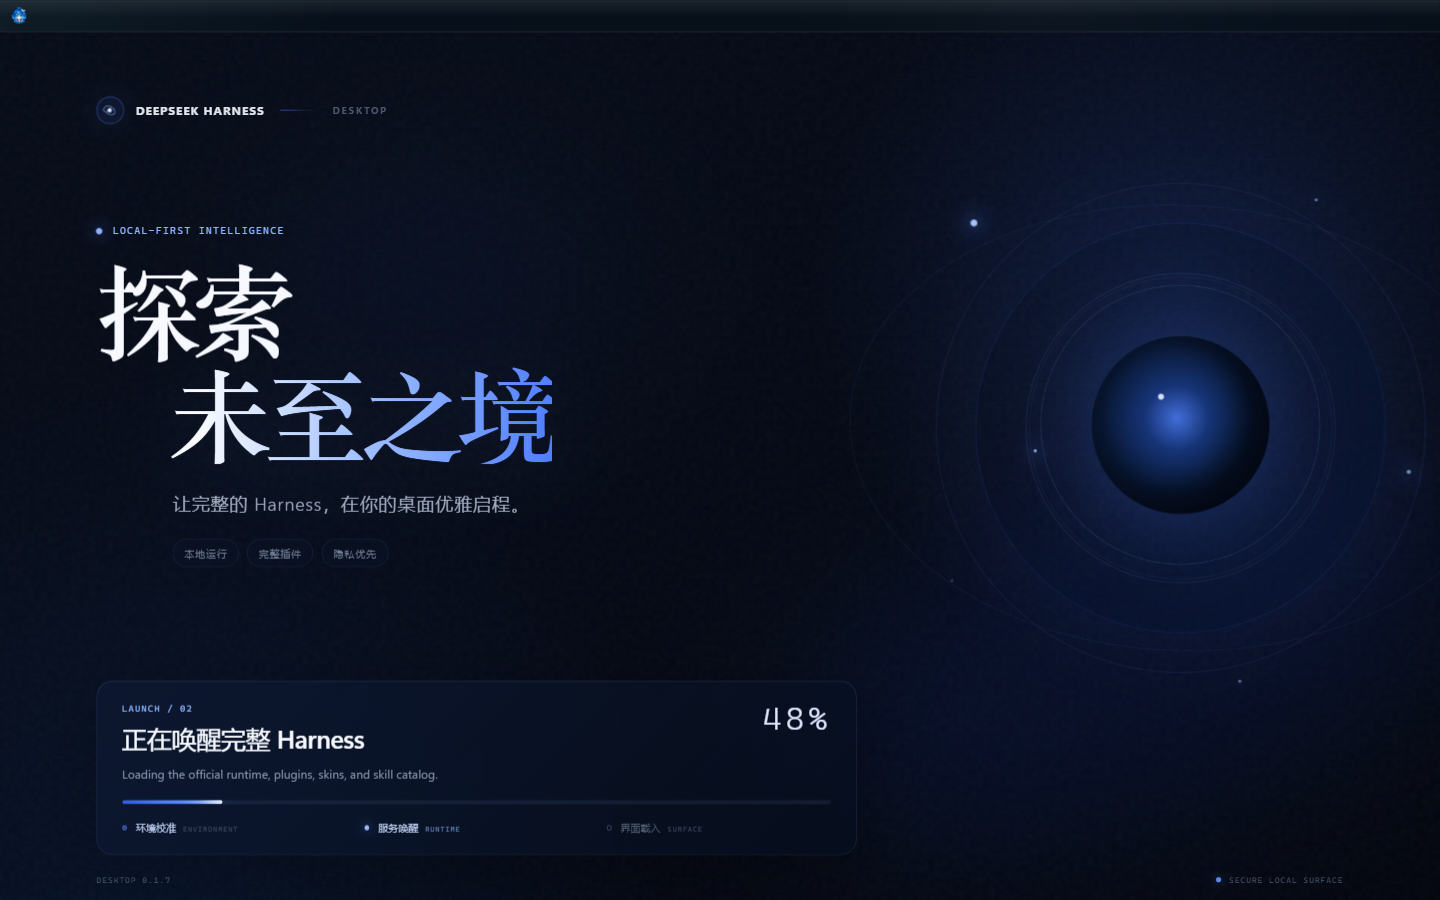
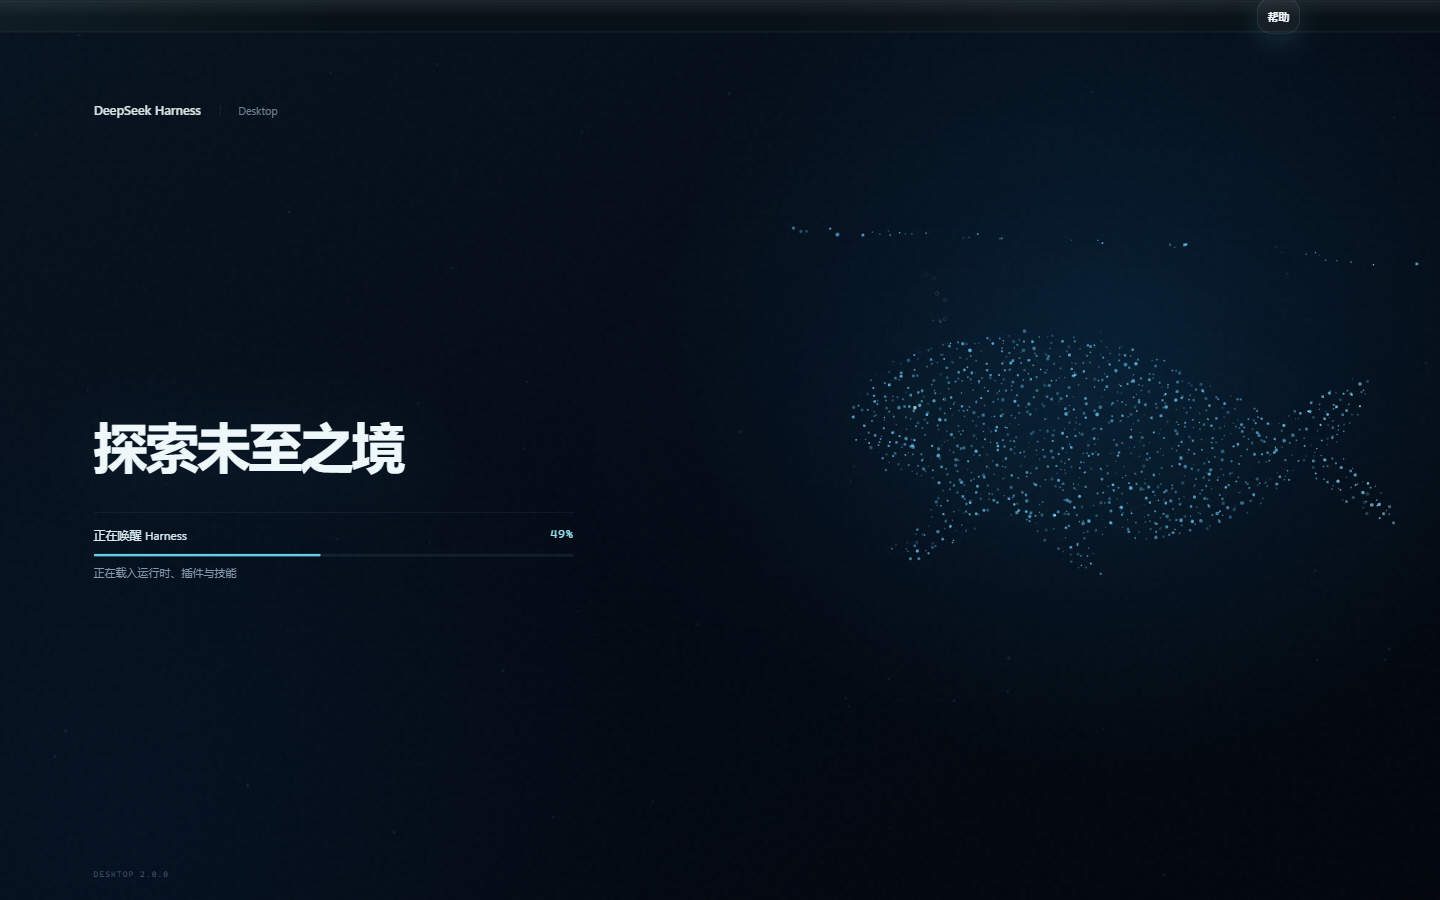
docs: present Desktop 2.0 website and screenshots

diff --git a/website/index.html b/website/index.html
@@ -4,7 +4,7 @@
     <meta charset="UTF-8">
     <meta name="viewport" content="width=device-width, initial-scale=1.0">
     <meta name="theme-color" content="#0a0a0a">
-    <meta name="description" content="DeepSeek Harness Desktop 是社区维护的开源 Windows 桌面客户端，完整保留 Harness Web 能力，提供 ChatGPT OAuth、OpenAI Codex、推理强度、插件、11 款主题、移动远程和自动更新。免费下载 Windows x64 安装包，无需另装 Node.js。">
+    <meta name="description" content="DeepSeek Harness Desktop 2.0 是社区维护的开源 Windows 桌面客户端，新增 Skills 技能库、排队消息续传、模型 API 自动恢复、SSH 实时监控、思考区吸顶与粒子鲸鱼启动页。免费下载 Windows x64 安装包，无需另装 Node.js。">
     <meta name="keywords" content="DeepSeek Harness Desktop,DeepSeek Harness 桌面版,DeepSeek Windows 客户端,开源 AI 编程助手,Harness 下载">
     <meta name="author" content="DeepSeek Harness Desktop Community">
     <meta name="robots" content="index, follow, max-image-preview:large, max-snippet:-1, max-video-preview:-1">
@@ -14,7 +14,7 @@
     <link rel="canonical" href="https://ningbainb.github.io/deepseek-harness-desktop/">
     <link rel="sitemap" type="application/xml" href="https://ningbainb.github.io/deepseek-harness-desktop/sitemap.xml">
     <meta property="og:title" content="DeepSeek Harness Desktop 开源 Windows 桌面版">
-    <meta property="og:description" content="完整 Harness，原生桌面。免费下载 Windows x64 安装包，无需另装 Node.js。">
+    <meta property="og:description" content="2.0 新增技能库、消息续传、模型 API 恢复、SSH 实时监控与全新粒子鲸鱼启动页。">
     <meta property="og:type" content="website">
     <meta property="og:url" content="https://ningbainb.github.io/deepseek-harness-desktop/">
     <meta property="og:site_name" content="DeepSeek Harness Desktop">
@@ -23,7 +23,7 @@
     <meta property="og:image:alt" content="DeepSeek Harness Desktop 开源 Windows 桌面客户端界面">
     <meta name="twitter:card" content="summary_large_image">
     <meta name="twitter:title" content="DeepSeek Harness Desktop 开源 Windows 桌面版">
-    <meta name="twitter:description" content="完整 Harness，原生桌面。免费下载 Windows x64 安装包。">
+    <meta name="twitter:description" content="2.0 新增技能库、消息续传、模型 API 恢复、SSH 实时监控与全新粒子鲸鱼启动页。">
     <meta name="twitter:image" content="https://ningbainb.github.io/deepseek-harness-desktop/assets/hero-main.png">
     <title>DeepSeek Harness Desktop 开源桌面版 - Windows 一键下载</title>
     <script type="application/ld+json">
@@ -44,7 +44,7 @@
             "name": "DeepSeek Harness Desktop",
             "alternateName": "DeepSeek Harness 桌面版",
             "url": "https://ningbainb.github.io/deepseek-harness-desktop/",
-            "description": "完整保留 Harness Web 能力的开源 Windows 桌面客户端，提供 ChatGPT OAuth、OpenAI Codex、推理强度、插件、11 款主题、移动远程和自动更新。",
+            "description": "完整保留 Harness Web 能力的开源 Windows 桌面客户端，2.0 新增 Skills 技能库、排队消息续传、模型 API 自动恢复、SSH 实时监控、思考区吸顶与粒子鲸鱼启动页。",
             "applicationCategory": "DeveloperApplication",
             "applicationSubCategory": "AI coding assistant",
             "operatingSystem": "Windows 10, Windows 11",
@@ -68,7 +68,12 @@
               "插件与技能管理",
               "11 款主题",
               "移动远程访问",
-              "自动更新"
+              "自动更新",
+              "对话栏 Skills 技能库",
+              "取消后的排队消息续传",
+              "模型 API 有界自动恢复",
+              "SSH 实时监控与安全操作",
+              "长思考吸顶折叠"
             ],
             "offers": {
               "@type": "Offer",
@@ -171,8 +176,8 @@
         <div class="container hero-inner">
           <div class="hero-copy reveal">
             <p class="overline">DeepSeek Harness Desktop 社区版</p>
-            <h1>DeepSeek Harness<br>Desktop 开源版</h1>
-            <p class="hero-summary">把官方 Web Surface 完整装进 Windows 桌面，并加入 ChatGPT OAuth、OpenAI Codex、推理强度、插件扩展与自动更新。</p>
+            <h1>DeepSeek Harness<br>Desktop 2.0</h1>
+            <p class="hero-summary">完整 Harness 进入桌面：Skills 技能库、可靠消息续传、模型 API 自动恢复、SSH 实时监控与全新粒子鲸鱼启动页。</p>
             <p class="hero-summary">无需另外安装 Node.js。下载、启动，然后直接开始工作。</p>
             <div class="hero-buttons">
               <a class="btn btn-primary download-link" href="https://github.com/ningbainb/deepseek-harness-desktop/releases/latest/download/DeepSeek-Harness-Desktop-Setup-2.0.0-x64.exe">
@@ -251,33 +256,57 @@
       <section class="latest-features" id="latest-features" aria-labelledby="latest-features-title">
         <div class="container">
           <div class="section-title reveal">
-            <span>v0.1.8 新增</span>
-            <h2 id="latest-features-title">登录、思考、扩展与迁移都更完整</h2>
+            <span>v2.0 核心升级</span>
+            <h2 id="latest-features-title">对话更可靠，技能与运维更顺手</h2>
           </div>
           <div class="latest-grid">
             <article class="latest-card reveal">
               <span class="latest-index">01</span>
-              <h3>ChatGPT OAuth 与 Codex</h3>
-              <p>设置页使用系统浏览器完成 ChatGPT OAuth，启用 OpenAI Codex 模型；既有 Provider 保持优先，凭据只保存在本机。</p>
-              <small>Codex Connect 0.1.0-alpha.4.5</small>
+              <h3>排队消息可靠续传</h3>
+              <p>智能体工作时发送的消息继续按顺序排队；即使取消当前执行，队列也会自动恢复，不丢失、不重复、不乱序。</p>
+              <small>CONVERSATION CONTINUITY</small>
             </article>
             <article class="latest-card reveal">
               <span class="latest-index">02</span>
-              <h3>模型推理强度滑块</h3>
-              <p>模型选择器中平滑切换实际支持的推理强度；切换模型后会自动回退到有效档位，避免无效配置。</p>
-              <small>reasoning-slider 0.0.2</small>
+              <h3>输入框新增技能库</h3>
+              <p>在输入框左下角直接搜索本机已安装 Skills，支持最近使用、分类、键盘导航与一键插入。</p>
+              <small>SKILLS AT YOUR FINGERTIPS</small>
             </article>
             <article class="latest-card reveal">
               <span class="latest-index">03</span>
-              <h3>帮助菜单直达社群</h3>
-              <p>顶部帮助菜单提供 QQ 群二维码、一键加群和 GitHub 建议入口，外部链接统一交给系统浏览器打开。</p>
-              <small>社区与反馈入口</small>
+              <h3>模型 API 自动恢复</h3>
+              <p>面对限流、超时、断网与服务端错误，桌面版执行有界退避重试；恢复后继续当前请求，手动操作仍可立即终止。</p>
+              <small>BOUNDED API RECOVERY</small>
             </article>
             <article class="latest-card reveal">
               <span class="latest-index">04</span>
-              <h3>单一市场与安全迁移</h3>
-              <p>默认只加载 dshmarket，并清理旧版重复市场和失效皮肤链接；空补丁会自动修复，同时保留非空用户配置。</p>
-              <small>dshmarket 1.3.0</small>
+              <h3>SSH 实时监控与操作</h3>
+              <p>实时查看 CPU、内存、磁盘、负载、进程与失败服务；经过确认后可终止进程或重启 systemd 服务。</p>
+              <small>LIVE SSH OPERATIONS</small>
+            </article>
+            <article class="latest-card reveal">
+              <span class="latest-index">05</span>
+              <h3>长思考随时折叠</h3>
+              <p>展开长思考后，折叠控制会吸附在会话顶部，不必再滚回思考起点才能关闭。</p>
+              <small>STICKY REASONING CONTROL</small>
+            </article>
+            <article class="latest-card reveal">
+              <span class="latest-index">06</span>
+              <h3>运行时完整性预检</h3>
+              <p>启动前检查关键运行文件；安装不完整时停止无意义重启循环，并给出明确的重新安装提示。</p>
+              <small>RUNTIME INTEGRITY</small>
+            </article>
+            <article class="latest-card reveal">
+              <span class="latest-index">07</span>
+              <h3>更新与安装更可靠</h3>
+              <p>发现新版后转入后台下载，完成后再确认重启安装；退出时完整回收 DSH 子进程，减少文件占用提示。</p>
+              <small>BACKGROUND UPDATE</small>
+            </article>
+            <article class="latest-card reveal">
+              <span class="latest-index">08</span>
+              <h3>Harness 原生视觉统一</h3>
+              <p>标题栏、扩展坞和启动页统一为更克制的系统风格；粒子鲸鱼拥有缓慢游动、摆尾和呼吸节奏。</p>
+              <small>NATIVE VISUAL SYSTEM</small>
             </article>
           </div>
         </div>
@@ -285,33 +314,33 @@
 
       <section class="features" id="features">
         <div class="container">
-          <div class="section-title reveal"><span>桌面特色</span><h2>完整 Harness，原生体验</h2></div>
+          <div class="section-title reveal"><span>2.0 界面实览</span><h2>新能力已经进入日常工作流</h2></div>
 
           <article class="feature-row reveal">
             <div class="feature-copy">
-              <div class="feature-title"><span class="play-icon">1</span><h3>打开即用，不改官方源码</h3></div>
-              <p>Electron 安全启动官方 DSH 本地主机，再加载桌面 profile。原版 Web 界面、插件协议和数据结构保持不变。</p>
-              <ul><li>内置官方 DSH 与 pnpm</li><li>仅监听本地回环地址</li><li>独立配置，不覆盖现有环境</li></ul>
+              <div class="feature-title"><span class="play-icon">1</span><h3>技能就在输入框旁</h3></div>
+              <p>单击技能库即可搜索本机 Skills，查看来源与描述，并通过鼠标或键盘插入当前对话。</p>
+              <ul><li>实时搜索与最近使用</li><li>方向键、Enter 与 Esc 完整支持</li><li>切换会话时自动收起</li></ul>
             </div>
-            <figure class="product-shot"><img src="assets/desktop-startup.webp" width="1200" height="750" loading="lazy" decoding="async" alt="DeepSeek Harness Desktop 启动界面"></figure>
+            <figure class="product-shot"><img src="assets/hero-main.webp" width="1280" height="800" loading="lazy" decoding="async" alt="DeepSeek Harness Desktop 2.0 主界面的 Skills 技能库菜单"></figure>
           </article>
 
           <article class="feature-row feature-row-reverse reveal">
             <div class="feature-copy">
-              <div class="feature-title"><span class="play-icon">2</span><h3>插件与技能统一管理</h3></div>
-              <p>扩展坞发现已安装插件、社区 bundle 与本地技能。安装前确认来源，支持回滚，内置能力始终受到保护。</p>
-              <ul><li>插件与技能发现</li><li>安装、更新与回滚</li><li>桌面内置能力保护</li></ul>
+              <div class="feature-title"><span class="play-icon">2</span><h3>粒子鲸鱼陪你进入 Harness</h3></div>
+              <p>启动界面只保留产品名、加载状态和进度条。粒子鲸鱼在右侧缓慢游动，并自动适配低动态偏好。</p>
+              <ul><li>实时加载阶段与进度</li><li>游动、摆尾与呼吸节奏</li><li>低成本渲染与隐藏页暂停</li></ul>
             </div>
-            <figure class="product-shot"><img src="assets/desktop-extension-dock.webp" width="1200" height="750" loading="lazy" decoding="async" alt="DeepSeek Harness Desktop 扩展坞"></figure>
+            <figure class="product-shot"><img src="assets/desktop-startup.webp" width="1440" height="900" loading="lazy" decoding="async" alt="DeepSeek Harness Desktop 2.0 粒子鲸鱼启动界面"></figure>
           </article>
 
           <article class="feature-row reveal">
             <div class="feature-copy">
-              <div class="feature-title"><span class="play-icon">3</span><h3>从会话到执行系统</h3></div>
-              <p>任务看板将工作拆成待规划、待办、进行中、已完成和失败五种状态。支持交给真实会话执行与 cron 定时调度。</p>
-              <ul><li>任务状态自动回写</li><li>执行过程可追溯</li><li>Git 图谱与文件预览</li></ul>
+              <div class="feature-title"><span class="play-icon">3</span><h3>插件与技能统一管理</h3></div>
+              <p>扩展坞集中展示内置插件、社区 bundle、本地技能与群友作品入口，默认能力受到保护，第三方扩展保持关闭。</p>
+              <ul><li>插件与技能发现</li><li>兼容性检查、更新与回滚</li><li>社区扩展来源与边界可见</li></ul>
             </div>
-            <figure class="product-shot"><img src="assets/task-board.webp" width="1200" height="596" loading="lazy" decoding="async" alt="DeepSeek Harness 任务看板"></figure>
+            <figure class="product-shot"><img src="assets/desktop-extension-dock.webp" width="1440" height="900" loading="lazy" decoding="async" alt="DeepSeek Harness Desktop 2.0 插件与技能扩展坞"></figure>
           </article>
         </div>
       </section>

diff --git a/docs/desktop.md b/docs/desktop.md
@@ -12,22 +12,36 @@ The DSH home remains `DSH_HOME` or `~/.dsh`. The desktop app runs the managed `~
 | --- | --- |
 | Runtime | Official DSH host, random loopback port, HTTP readiness probe, graceful stop, bounded automatic restart |
 | Web surface | Original DSH Web application and complete dsh-web-ui plugin/skin aggregate |
-| Recovery | Startup status, sanitized recent error, retry, profile repair, logs, exit |
+| Conversation continuity | FIFO next-turn queue, automatic continuation after cancellation, normalized user-cancellation feedback |
+| Model recovery | Bounded backoff for rate limits, timeouts, network loss, and retryable server errors; immediate manual cancellation |
+| Recovery | Critical-file preflight, startup status, sanitized recent error, retry, profile repair, logs, exit |
 | Plugins | Actual version inventory, Desktop-managed built-ins, lazy community update checks, three-state compatibility, offline exact switch, rollback |
-| Skills | Project/DSH/Agents root discovery, official precedence, shadow reporting, safe folder import |
+| Skills | Project/DSH/Agents root discovery, safe folder import, searchable conversation menu, recent-use ordering, full keyboard control |
+| Reasoning | Sticky disclosure control keeps long reasoning collapsible without scrolling back to its start |
+| SSH operations | Three-second Linux telemetry for CPU, memory, disk, load, processes, and failed services, plus confirmed process and systemd actions |
 | Window | Single instance, persisted visible geometry, native menu, download destination prompt |
 | Community | Help-menu QQ group QR and one-click join, direct GitHub issue feedback |
 | Updates | Stable GitHub Releases, background download, user-confirmed restart/install, release notes, taskbar progress |
+| Visual system | Solid native/injected title-bar alignment, system-style Extension Dock, bounded animated particle-whale startup surface |
 | Security | Sandbox, context isolation, no Node integration, loopback navigation allowlist, denied permissions |
+
+## Desktop 2.0 screenshots
+
+The main Harness surface exposes the searchable Skills library beside the composer while preserving the official conversation, workspace, and tool interfaces.
+
+![DeepSeek Harness Desktop 2.0 main interface and Skills library](screenshots/13-hero-main.png)
+
+| Particle-whale startup surface | Plugin and skill Extension Dock |
+| --- | --- |
+| ![Desktop 2.0 startup surface](screenshots/desktop-startup.png) | ![Desktop 2.0 Extension Dock](screenshots/desktop-extension-dock.png) |
 
 ## Performance and size
 
-Reference measurements on the Windows 11 development machine for version 0.1.9:
+Reference measurements on the Windows 11 development machine for version 2.0.0:
 
 | Measurement | Result |
 | --- | ---: |
-| Desktop test suite | 106 passing tests |
-| Managed runtime packages | 20 |
+| Managed runtime packages | 22 |
 | Fresh profile preparation, median | 22.3 ms |
 | Unchanged profile preparation, median | 13.2 ms |
 | Warm DSH readiness | about 2.8–3.0 seconds |
@@ -41,7 +55,7 @@ Download the x64 installer from GitHub Releases and verify its SHA-256 against `
 
 No separate Node.js or pnpm installation is required for release users.
 
-Starting with version 0.1.9, the installed app checks stable GitHub Releases after startup and every six hours, then downloads a discovered release in the background. Open `Help > Check for Updates` to check immediately. Installation still requires an explicit `Restart and install` action. Automatic check failures remain in the desktop log; manual check failures are shown to the user.
+The installed app checks stable GitHub Releases after startup and every six hours, then downloads a discovered release in the background. Open `Help > Check for Updates` to check immediately. Installation still requires an explicit `Restart and install` action. Desktop stops and reaps the DSH child process before handing control to the installer. Automatic check failures remain in the desktop log; manual check failures are shown to the user.
 
 ## Extension Dock
 

diff --git a/README.en.md b/README.en.md
@@ -33,7 +33,24 @@ If this project helps you, Star the [GitHub repository](https://github.com/ningb
 | **0.1.4** | Moves the pet to the global Shell Overlay so it appears on home and settings screens, restores all five Web UI plugin settings cards, and lists all nine packaged skins in Skin Center. |
 | **0.1.3** | Adds stable GitHub Release checks, bilingual update notes, user-confirmed downloads, taskbar progress, and a second confirmation before installation. |
 
-| Lossless original surface | Desktop Extension Dock |
+### 2.0 Core Features
+
+- **Reliable queued-message continuation**: messages sent while an agent is working remain in FIFO order; cancelling the active turn re-arms the queue without loss, duplication, or reordering.
+- **Conversation Skills library**: search installed skills beside the input box, inspect their source and description, navigate with the keyboard, insert with Enter, and close with Esc.
+- **Automatic model API recovery**: bounded backoff retries recover from rate limits, timeouts, network loss, and retryable server errors while manual cancellation remains immediate.
+- **Live SSH monitoring and safe operations**: refresh CPU, memory, disk, load, process, and failed-service data every three seconds, then confirm before terminating a process or restarting a systemd service.
+- **Collapsible long reasoning**: the disclosure control stays pinned at the top of the conversation while a long reasoning block is open.
+- **Runtime integrity preflight**: critical packaged files are checked before launch; an incomplete installation stops cleanly with a repair message instead of entering a restart loop.
+- **More reliable updates and installation**: new releases download in the background, installation waits for confirmation, and Desktop fully reaps the DSH child process before exit to reduce false file-in-use reports.
+- **Native Harness visual system**: the title bar, Extension Dock, and startup surface share one restrained system style, with a particle whale that swims, breathes, and moves its tail.
+
+#### 2.0 System Interface
+
+![DeepSeek Harness Desktop 2.0 main interface and Skills library](docs/screenshots/13-hero-main.png)
+
+#### 2.0 Desktop Surfaces
+
+| Particle-whale startup | Plugin and skill Extension Dock |
 | --- | --- |
 | ![Desktop startup](docs/screenshots/desktop-startup.png) | ![Plugin and skill Extension Dock](docs/screenshots/desktop-extension-dock.png) |
 
@@ -42,13 +59,11 @@ If this project helps you, Star the [GitHub repository](https://github.com/ningb
 - Bundles ChatGPT OAuth, OpenAI Codex models, and a reasoning-effort slider; sign-in uses the system browser and credentials stay local;
 - Uses an isolated `desktop` profile without overwriting an existing DSH setup, and binds only to loopback;
 - Adds crash recovery, sanitized rotating logs, window-state restore, strict navigation, and denied-by-default permissions;
-- Checks stable GitHub Releases, shows bilingual release notes, and asks before downloading or restarting to install;
+- Checks stable GitHub Releases, downloads discovered updates in the background, shows bilingual release notes, and asks before restarting to install;
 - Adds a dock for transactional community DSH bundle management, built-in plugin stores, and safe discovery/import of project, DSH, and Agents skills;
 - Bundles official DSH, pnpm, and native dependencies, so users do not need a separate Node.js installation.
 
 The desktop app already includes the task board, Git graph, right panel, mobile remote control, remote connection, whale-girl pet, live token statistics, Codex Connect, the reasoning-effort slider, plugin market, and Skin Center. Install the EXE and start working — no separate DSH or Node.js setup and no plugin commands are required.
-
-![DSH Web UI main screen](docs/screenshots/13-hero-main.png)
 
 ## Feature Plugins
 
